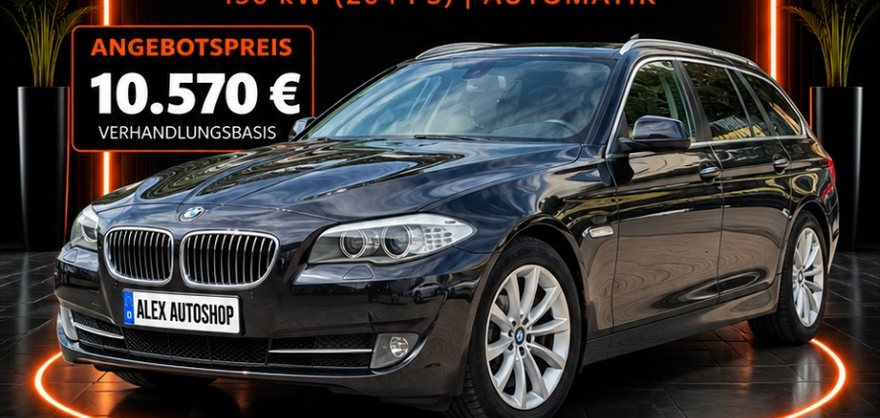
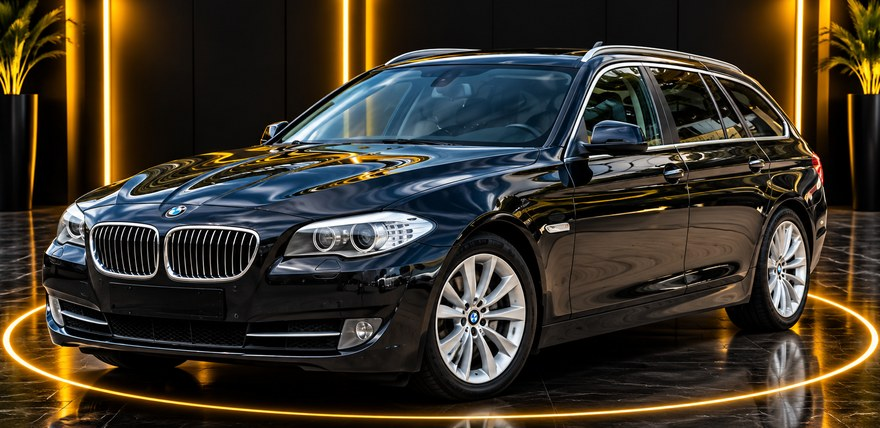
Fahrzeugboerse: 64 Fahrzeuge, Mietboerse und Business-Kredit
12 weitere Fahrzeuge aufgenommen, Bestand steht bei 64; acht der zwanzig Blaetter waren Dubletten. Der BMW 523 Touring hat das neue Studiobild ohne Preis bekommen. Aus Mieten und Vermieten wird ein Menuepunkt Mietboerse, die Seite beginnt jetzt mit zwei klaren Wegen: Auto mieten oder das eigene Auto vermieten lassen. Aus Kfz-Finanzierung und Kreditvermittlung wird ein Menuepunkt Business-Kredit. Beide Einzelseiten bleiben bestehen und sind aus der Fusszeile und untereinander verlinkt - fuer Google ist auto mieten wuppertal eine andere Suche als kfz finanzierung.

Claude-Session: https://claude.ai/code/session_01U1aMrJu8EivKdouXgqMG5n

diff --git a/src/data/fahrzeuge.ts b/src/data/fahrzeuge.ts
@@ -724,6 +724,162 @@ export const FAHRZEUGE: Fahrzeug[] = [
     beschreibung: "Peugeot 206 1.1 mit nur einem Vorbesitzer und TÜV bis 05/2028. Günstiger geht ein fahrbereites Auto mit langem TÜV kaum.",
     bild: "/fahrzeuge/peugeot-206-1-1.jpg",
   },
+  {
+    slug: "seat-alhambra-1-4-tsi",
+    marke: "Seat", modell: "Alhambra", variante: "1.4 TSI",
+    titel: "Seat Alhambra 1.4 TSI",
+    preis: 12699, km: 142000, erstzulassung: "01/2013",
+    kraftstoff: "Benzin", getriebe: "Schaltgetriebe",
+    kw: 110, ps: 149, hubraum: 1390, tueren: 5, sitze: 5,
+    plakette: "Euro 5 · 4 (Grün)", tuev: "neu", bauart: "Van",
+    ausstattung: ["Navigationssystem","Einparkhilfe","Sitzheizung","Tempomat","Bluetooth","Freisprecheinrichtung","Klimaanlage","Xenonscheinwerfer","ABS","Leichtmetallfelgen","Außenfarbe Silber","Innenausstattung Stoff"],
+    zustand: ["Altersbedingte Gebrauchsspuren","Unfallschaden: keiner bekannt","3 Vorbesitzer","TÜV wird bei Verkauf neu gemacht"],
+    beschreibung: "Seat Alhambra 1.4 TSI mit 149 PS. Großer Van mit Schiebetüren, Navigation und Xenon — die praktische Alternative zum Sharan.",
+    bild: "/fahrzeuge/seat-alhambra-1-4-tsi.jpg",
+  },
+  {
+    slug: "vw-t5-caravelle-4motion",
+    marke: "Volkswagen", modell: "T5 Transporter", variante: "Bus Caravelle Trendline 4Motion",
+    titel: "VW T5 Caravelle Trendline 4Motion",
+    preis: 10399, km: 243966, erstzulassung: "10/2010",
+    kraftstoff: "Diesel", getriebe: "Automatik",
+    kw: 132, ps: 179, hubraum: 1968, tueren: 5, sitze: 7,
+    plakette: "Euro 4 · 4 (Grün)", tuev: "auf Anfrage", bauart: "Transporter",
+    ausstattung: ["Allradantrieb (4Motion)","Klimaanlage","Navigationssystem","Freisprecheinrichtung","Schiebetüren","7 Sitzplätze","Anhängelast gebremst 2.500 kg","Tankgröße 80 l"],
+    zustand: ["Unfallschaden: keiner bekannt","2 Fahrzeughalter"],
+    beschreibung: "VW T5 Caravelle Trendline mit 4Motion-Allrad, Automatik und 179 PS. Sieben Sitze, Schiebetüren, 2,5 t Anhängelast — der Bus für Familie, Betrieb und Anhänger.",
+    bild: "/fahrzeuge/vw-t5-caravelle-4motion.jpg",
+  },
+  {
+    slug: "bmw-318d",
+    marke: "BMW", modell: "318d", variante: "2.0 Diesel",
+    titel: "BMW 318d 2.0 Diesel",
+    preis: 9490, km: 175140, erstzulassung: "05/2012",
+    kraftstoff: "Diesel", getriebe: "Schaltgetriebe",
+    kw: 105, ps: 143, hubraum: 1995, tueren: 4, sitze: 5,
+    plakette: "Euro 5 · 4 (Grün)", tuev: "09/2028", bauart: "Limousine",
+    ausstattung: ["Klimaanlage","Einparkhilfe hinten (PDC)","Multifunktionslenkrad","Tempomat","Radio / CD","Elektrische Fensterheber","Reifengröße 225/55 R16","Anhängelast gebremst 1.600 kg","Farbe Platingrau Metallic"],
+    zustand: ["Gebrauchsspuren und Kratzer","Unfallschaden: keiner bekannt"],
+    beschreibung: "BMW 318d mit 143 PS und Schaltgetriebe. TÜV bis 09/2028, sparsamer Diesel mit Anhängerkupplungs-Freigabe.",
+    bild: "/fahrzeuge/bmw-318d.jpg",
+  },
+  {
+    slug: "ford-focus-1-0-ecoboost",
+    marke: "Ford", modell: "Focus", variante: "1.0 EcoBoost",
+    titel: "Ford Focus 1.0 EcoBoost",
+    preis: 9099, km: 87000, erstzulassung: "05/2018",
+    kraftstoff: "Benzin", getriebe: "Schaltgetriebe",
+    kw: 92, ps: 125, hubraum: 998, tueren: 5, sitze: 5,
+    plakette: "Euro 6 · 4 (Grün)", tuev: "05/2026", bauart: "Kompaktwagen",
+    ausstattung: ["Klimaanlage","Tempomat","Parksensoren hinten","Start/Stopp-Automatik","Bluetooth","Freisprecheinrichtung","Isofix","Multifunktionslenkrad","Zahnriemen neu"],
+    zustand: ["Gebrauchsspuren dem Alter entsprechend","Kleine Kratzer und Dellen","Unfallschaden: keiner bekannt","2 Vorbesitzer"],
+    beschreibung: "Ford Focus 1.0 EcoBoost mit 125 PS, Euro 6 und frischem Zahnriemen. Wenig gelaufen für sein Baujahr, sparsam und gut ausgestattet.",
+    bild: "/fahrzeuge/ford-focus-1-0-ecoboost.jpg",
+  },
+  {
+    slug: "ford-fiesta-1-0-ecoboost",
+    marke: "Ford", modell: "Fiesta", variante: "1.0 EcoBoost Automatik",
+    titel: "Ford Fiesta 1.0 EcoBoost Automatik",
+    preis: 6790, km: 116685, erstzulassung: "03/2014",
+    kraftstoff: "Benzin", getriebe: "Automatik",
+    kw: 74, ps: 100, hubraum: 999, tueren: 5, sitze: 5,
+    plakette: "4 (Grün)", tuev: "03/2026", bauart: "Kleinwagen",
+    ausstattung: ["Klimaanlage","Zentralverriegelung","Elektrische Fensterheber (vorne)","Radio / CD","Multifunktionslenkrad","Airbag Fahrer & Beifahrer","Kopfstützen hinten","Geteilte Rücksitzbank","ABS & ESP","Servolenkung","Bordcomputer","Leichtmetallfelgen"],
+    zustand: ["Technisch einwandfrei","Nichtraucherfahrzeug","Innenraum gepflegt","Scheckheft gepflegt"],
+    beschreibung: "Zuverlässiger Ford Fiesta 1.0 EcoBoost mit 100 PS und Automatikgetriebe. Sehr sparsam und ideal für den Stadtverkehr. Technisch einwandfrei und sofort fahrbereit.",
+    bild: "/fahrzeuge/ford-fiesta-1-0-ecoboost.jpg",
+  },
+  {
+    slug: "renault-twingo-1-2",
+    marke: "Renault", modell: "Twingo", variante: "1.2 16V",
+    titel: "Renault Twingo 1.2 16V",
+    preis: 2799, km: 123000, erstzulassung: "06/2013",
+    kraftstoff: "Benzin", getriebe: "Schaltgetriebe",
+    kw: 55, ps: 75, hubraum: 1149, tueren: 3, sitze: 4,
+    plakette: "Euro 5 · 4 (Grün)", tuev: "05/2028", bauart: "Kleinwagen",
+    ausstattung: ["Klimaanlage","Servolenkung","Elektrische Fensterheber","Radio / CD","Zentralverriegelung","Isofix","Geteilte Rücksitze","Sommerreifen auf Stahlfelgen","Inspektion neu"],
+    zustand: ["Gebrauchsspuren dem Alter entsprechend","Kleine Kratzer und Dellen","Unfallschaden: keiner bekannt","2 Fahrzeughalter"],
+    beschreibung: "Renault Twingo 1.2 16V mit 75 PS. TÜV und Inspektion frisch gemacht, Klimaanlage an Bord — ein günstiger, zuverlässiger Stadtwagen.",
+    bild: "/fahrzeuge/renault-twingo-1-2.jpg",
+  },
+  {
+    slug: "bmw-320d-touring",
+    marke: "BMW", modell: "320d Touring", variante: "Navi / PDC / Klimaautomatik",
+    titel: "BMW 320d Touring",
+    preis: 2390, km: 178650, erstzulassung: "03/2010",
+    kraftstoff: "Diesel", getriebe: "Schaltgetriebe",
+    kw: 130, ps: 177, tueren: 5, sitze: 5,
+    plakette: "Euro 5 · 4 (Grün)", tuev: "auf Anfrage", bauart: "Kombi",
+    ausstattung: ["Navigationssystem","Einparkhilfe (PDC)","Klimaautomatik"],
+    zustand: ["Quietschen im Motor die ersten fünf Minuten, danach fährt er einwandfrei","Unfallschaden: keiner bekannt","2 Fahrzeughalter"],
+    beschreibung: "BMW 320d Touring mit 177 PS, Navigation, PDC und Klimaautomatik. Ehrlich gesagt: der Motor quietscht die ersten fünf Minuten — danach läuft er einwandfrei. Deshalb der Preis.",
+    bild: "/fahrzeuge/bmw-320d-touring.jpg",
+  },
+  {
+    slug: "skoda-fabia-1-2",
+    marke: "Skoda", modell: "Fabia", variante: "1.2 12V",
+    titel: "Skoda Fabia 1.2 12V",
+    preis: 2299, km: 140000, erstzulassung: "05/2005",
+    kraftstoff: "Benzin", getriebe: "Schaltgetriebe",
+    kw: 40, ps: 55, hubraum: 1198, tueren: 5, sitze: 5,
+    plakette: "Euro 4 · 4 (Grün)", tuev: "neu", bauart: "Kleinwagen",
+    ausstattung: ["Klimaanlage","Servolenkung","Airbag","ABS","Zentralverriegelung","Elektrische Fensterheber","Radio / CD","Isofix"],
+    zustand: ["Gebrauchsspuren dem Alter entsprechend","Kleine Kratzer und Dellen","Unfallschaden: keiner bekannt","3 Vorbesitzer"],
+    beschreibung: "Skoda Fabia 1.2 mit TÜV neu. Klimaanlage, Isofix und der bekannt haltbare VW-Unterbau — ein ehrlicher Erst- oder Zweitwagen.",
+    bild: "/fahrzeuge/skoda-fabia-1-2.jpg",
+  },
+  {
+    slug: "vw-golf-plus-1-6",
+    marke: "Volkswagen", modell: "Golf Plus", variante: "1.6",
+    titel: "VW Golf Plus 1.6",
+    preis: 2290, km: 173322, erstzulassung: "01/2007",
+    kraftstoff: "Benzin", getriebe: "Schaltgetriebe",
+    kw: 75, ps: 102, hubraum: 1598, tueren: 5, sitze: 5,
+    plakette: "Euro 4 · 4 (Grün)", tuev: "auf Anfrage", bauart: "Van",
+    ausstattung: ["Klimaanlage","Radio / CD","Elektrische Fensterheber","Zentralverriegelung","Servolenkung","Airbag","ABS","Geteilte Rücksitzbank","Hoher Einstieg"],
+    zustand: ["Keine Mängel bekannt","Unfallschaden: keiner bekannt"],
+    beschreibung: "Das Fahrzeug läuft einwandfrei, Motor und Getriebe sind in einem sehr guten Zustand. Alle Rechnungen vorhanden. Rostfrei. Einsteigen und losfahren!",
+    bild: "/fahrzeuge/vw-golf-plus-1-6.jpg",
+  },
+  {
+    slug: "hyundai-atos-prime",
+    marke: "Hyundai", modell: "Atos Prime", variante: "1.1",
+    titel: "Hyundai Atos Prime 1.1",
+    preis: 2099, km: 130000, erstzulassung: "03/2007",
+    kraftstoff: "Benzin", getriebe: "Schaltgetriebe",
+    kw: 46, ps: 62, hubraum: 1086, tueren: 5, sitze: 5,
+    plakette: "Euro 4 · 4 (Grün)", tuev: "08/2028", bauart: "Kleinwagen",
+    ausstattung: ["Bluetooth","Radio","ABS","Zentralverriegelung","Servolenkung","Außenfarbe Schwarz","Innenausstattung Stoff"],
+    zustand: ["Altersbedingte Gebrauchsspuren","Nichtraucherfahrzeug","Unfallschaden: keiner bekannt","3 Vorbesitzer","Keine Klimaanlage"],
+    beschreibung: "Hyundai Atos Prime mit TÜV bis 08/2028. Hoher Einstieg, wenig Verbrauch, kaum Unterhalt — der klassische Zweitwagen.",
+    bild: "/fahrzeuge/hyundai-atos-prime.jpg",
+  },
+  {
+    slug: "opel-corsa-c-1-2-twinport",
+    marke: "Opel", modell: "Corsa C", variante: "1.2 Twinport",
+    titel: "Opel Corsa C 1.2 Twinport",
+    preis: 1899, km: 114000, erstzulassung: "05/2004",
+    kraftstoff: "Benzin", getriebe: "Schaltgetriebe",
+    kw: 44, ps: 60, hubraum: 1229, tueren: 5, sitze: 5,
+    plakette: "Euro 4 · 4 (Grün)", tuev: "neu", bauart: "Kleinwagen",
+    ausstattung: ["Servolenkung","ABS","Airbag Fahrer & Beifahrer","Zentralverriegelung","Elektrische Fensterheber","Radio / CD","Sitzverstellung Höhe","Geteilte Rücksitze","Sommerreifen auf Stahlfelgen","Inspektion neu"],
+    zustand: ["Gebrauchsspuren dem Alter entsprechend","Kleine Kratzer und Dellen","Unfallschaden: keiner bekannt","3 Fahrzeughalter","Keine Klimaanlage"],
+    beschreibung: "Opel Corsa C 1.2 Twinport mit TÜV und Inspektion neu. Wenig Kilometer für sein Alter — günstig im Kauf und im Unterhalt.",
+    bild: "/fahrzeuge/opel-corsa-c-1-2-twinport.jpg",
+  },
+  {
+    slug: "nissan-micra-cabrio-2004",
+    marke: "Nissan", modell: "Micra", variante: "1.6 16V Cabrio",
+    titel: "Nissan Micra 1.6 Cabrio",
+    preis: 1890, km: 141800, erstzulassung: "10/2004",
+    kraftstoff: "Benzin", getriebe: "Schaltgetriebe",
+    kw: 81, ps: 110, hubraum: 1598, tueren: 2, sitze: 4,
+    plakette: "Euro 4 · 4 (Grün)", tuev: "auf Anfrage", bauart: "Cabrio",
+    ausstattung: ["Elektrische Fensterheber","Zentralverriegelung","Servolenkung","Radio"],
+    zustand: ["Unfallschaden: keiner bekannt","3 Fahrzeughalter"],
+    beschreibung: "Nissan Micra Cabrio mit 110 PS und elektrischem Klappdach. Offen fahren für unter 2.000 € — günstiger kommt man kaum an ein Cabrio.",
+    bild: "/fahrzeuge/nissan-micra-cabrio-2004.jpg",
+  },
 ];
 
 /** "06/2027" → Date am Monatsende; "neu" o. ä. → null */

diff --git a/src/pages/Mieten.tsx b/src/pages/Mieten.tsx
@@ -1,8 +1,9 @@
 import { motion } from "framer-motion";
-import { Phone, MessageCircle, MapPin, CheckCircle, ShieldCheck, Car, Truck, Package, Sparkles } from "lucide-react";
+import { Phone, MessageCircle, MapPin, CheckCircle, ShieldCheck, Car, Truck, Package, Sparkles, HandCoins, ArrowRight } from "lucide-react";
 import { Seo } from "@/components/Seo";
 import { SHOP_INFO, whatsappLink } from "@/data/shopInfo";
 import { FahrzeugbNav, BereichsHero } from "@/components/FahrzeugbNav";
+import { Link } from "react-router-dom";
 
 const auf = { initial: { opacity: 0, y: 18 }, whileInView: { opacity: 1, y: 0 }, viewport: { once: true, margin: "-60px" } };
 
@@ -25,15 +26,15 @@ export default function Mieten() {
   return (
     <div>
       <Seo
-        title="Auto mieten in Wuppertal – Kleinwagen, Kombi, Transporter | Alex Autoshop"
+        title="Mietbörse Wuppertal – Auto mieten und vermieten | Alex Autoshop"
         description="Fahrzeug mieten in Wuppertal: Kleinwagen, Kombi, Van und Transporter. Versichert als Selbstfahrervermietfahrzeug, Übergabe direkt beim Händler. Preise auf Anfrage."
       />
       <FahrzeugbNav />
       <BereichsHero
         augenbraue="Alex Autoshop · Fahrzeugbörse"
-        titel="Auto mieten."
-        akzent="Ohne Theater."
-        text="Vom Kleinwagen bis zum Transporter — Übergabe bei uns in Wuppertal, ohne Warteschlange am Flughafenschalter und ohne Kleingedrucktes, das erst beim Zurückgeben auffällt."
+        titel="Mietbörse."
+        akzent="Mieten und vermieten."
+        text="Vom Kleinwagen bis zum Transporter — Übergabe bei uns in Wuppertal, ohne Warteschlange am Schalter und ohne Kleingedrucktes, das erst beim Zurückgeben auffällt. Und wenn dein eigenes Auto nur herumsteht: wir vermieten es für dich."
       >
         <div className="flex flex-col sm:flex-row gap-3 justify-center">
           <a href={`tel:${SHOP_INFO.phoneIntl}`} className="btn-gold-bright text-lg px-8">
@@ -46,7 +47,37 @@ export default function Mieten() {
         </div>
       </BereichsHero>
 
-      <section className="container py-14 sm:py-20">
+      {/* Zwei Wege: mieten oder das eigene Auto vermieten lassen */}
+      <section className="container pt-10 sm:pt-14">
+        <div className="grid sm:grid-cols-2 gap-5">
+          <div className="card-tilt hover:translate-y-0 p-6 border-primary/40 bg-primary/5">
+            <div className="w-12 h-12 rounded-xl bg-primary/15 flex items-center justify-center mb-4">
+              <Car className="w-6 h-6 text-primary" />
+            </div>
+            <h2 className="text-xl mb-2">Ich will ein Auto mieten</h2>
+            <p className="text-sm text-muted-foreground leading-relaxed mb-4">
+              Kleinwagen, Kombi, Transporter oder etwas Besonderes — für einen Tag oder für Wochen.
+            </p>
+            <a href="#klassen" className="inline-flex items-center gap-1.5 text-primary font-semibold text-sm hover:underline">
+              Fahrzeugklassen ansehen <ArrowRight className="w-4 h-4" />
+            </a>
+          </div>
+          <Link to="/vermieten" className="card-tilt p-6 block">
+            <div className="w-12 h-12 rounded-xl bg-primary/10 flex items-center justify-center mb-4">
+              <HandCoins className="w-6 h-6 text-primary" />
+            </div>
+            <h2 className="text-xl mb-2">Mein Auto soll Geld verdienen</h2>
+            <p className="text-sm text-muted-foreground leading-relaxed mb-4">
+              Du gibst dein Fahrzeug bei uns ab, wir kümmern uns um Mieter, Versicherung und Übergabe.
+            </p>
+            <span className="inline-flex items-center gap-1.5 text-primary font-semibold text-sm">
+              So läuft das Vermieten <ArrowRight className="w-4 h-4" />
+            </span>
+          </Link>
+        </div>
+      </section>
+
+      <section id="klassen" className="container py-14 sm:py-20 scroll-mt-40">
         <motion.h2 {...auf} className="text-2xl sm:text-3xl mb-8">Was du bei uns mieten kannst</motion.h2>
         <div className="grid sm:grid-cols-2 lg:grid-cols-4 gap-5">
           {KLASSEN.map((k, i) => (

diff --git a/src/pages/Kreditvermittlung.tsx b/src/pages/Kreditvermittlung.tsx
@@ -39,21 +39,21 @@ export default function Kreditvermittlung() {
   return (
     <div>
       <Seo
-        title="Kreditvermittlung für Gewerbe & Händler – Wuppertal | Alex Autoshop"
-        description="Finanzierungsanfragen für Autohändler, Werkstätten und Gewerbetreibende: Fahrzeugkauf, Händlerbestand, Betriebsmittel. Ausschließlich für gewerbliche Kunden. Erlaubnis nach § 34c GewO."
+        title="Business-Kredit für Händler & Gewerbe – Wuppertal | Alex Autoshop"
+        description="Kredit- und Finanzierungsanfragen für Autohändler, Werkstätten und Gewerbetreibende: Fahrzeugkauf, Händlerbestand, Betriebsmittel. Ausschließlich für gewerbliche Kunden. Erlaubnis nach § 34c GewO."
       />
       <FahrzeugbNav />
       <BereichsHero
         augenbraue="Alex Autoshop · Fahrzeugbörse"
-        titel="Kreditvermittlung."
+        titel="Business-Kredit."
         akzent="Nur für Gewerbe."
-        text="Für Autohändler, Werkstätten, Unternehmen und Selbstständige. Wir nehmen deine Anfrage auf und gehen damit zu den Finanzierungspartnern — für Fahrzeugkauf, Händlerbestand oder Betriebsmittel."
+        text="Für Autohändler, Werkstätten, Unternehmen und Selbstständige. Ein Weg für beides — das Fahrzeug für den Betrieb und das Geld, das dahinter steht. Wir nehmen deine Anfrage auf und gehen damit zu den Finanzierungspartnern."
       >
         <div className="inline-flex items-start gap-2 rounded-xl bg-night/60 border border-gold-bright/30 px-4 py-3 text-left max-w-md">
           <Lock className="w-4 h-4 text-gold-accent shrink-0 mt-0.5" />
           <p className="text-sm text-white/80">
             Dieser Bereich richtet sich <strong className="text-white">ausschließlich an gewerbliche Kunden</strong>.
-            Privatkunden können ihn nicht nutzen — für private Fahrzeugkäufe gibt es die{" "}
+            Privatkunden können ihn nicht nutzen — für den privaten Autokauf gibt es die{" "}
             <Link to="/finanzierung" className="text-gold-accent underline underline-offset-2">Kfz-Finanzierung</Link>.
           </p>
         </div>

diff --git a/src/components/FahrzeugbNav.tsx b/src/components/FahrzeugbNav.tsx
@@ -1,15 +1,13 @@
 import { NavLink } from "react-router-dom";
 import { useMerkliste } from "@/hooks/useMerkliste";
-import { Car, Key, HandCoins, Banknote, Landmark, Heart } from "lucide-react";
+import { Car, Key, Landmark, Heart } from "lucide-react";
 import { cn } from "@/lib/utils";
 
 /** Unter-Navigation der Fahrzeugbörse — auf allen vier Bereichsseiten gleich. */
 export const BEREICHE = [
   { to: "/fahrzeugboerse", label: "Fahrzeuge", icon: Car, ende: true },
-  { to: "/mieten", label: "Mieten", icon: Key, ende: false },
-  { to: "/vermieten", label: "Vermieten", icon: HandCoins, ende: false },
-  { to: "/finanzierung", label: "Kfz-Finanzierung", icon: Banknote, ende: false },
-  { to: "/kreditvermittlung", label: "Kreditvermittlung", icon: Landmark, ende: false },
+  { to: "/mieten", label: "Mietbörse", icon: Key, ende: false },
+  { to: "/kreditvermittlung", label: "Business-Kredit", icon: Landmark, ende: false },
 ];
 
 export function FahrzeugbNav() {

diff --git a/src/pages/Finanzierung.tsx b/src/pages/Finanzierung.tsx
@@ -77,7 +77,7 @@ export default function Finanzierung() {
             </p>
             <div className="flex flex-col gap-1.5">
               <Link to="/kreditvermittlung" className="text-primary font-semibold text-sm hover:underline">
-                Zur Kreditvermittlung für Gewerbe →
+                Zum Business-Kredit für Gewerbe →
               </Link>
               <Link to="/mitgliedschaft" className="text-primary font-semibold text-sm hover:underline">
                 Mitgliedschaft ansehen →

diff --git a/src/pages/Vermieten.tsx b/src/pages/Vermieten.tsx
@@ -24,7 +24,7 @@ export default function Vermieten() {
   return (
     <div>
       <Seo
-        title="Auto vermieten lassen – Wuppertal | Alex Autoshop Fahrzeugbörse"
+        title="Auto vermieten lassen – Mietbörse Wuppertal | Alex Autoshop"
         description="Dein Auto steht nur herum? Wir vermieten es für dich: versichert als Selbstfahrervermietfahrzeug, geprüfte Mieter, Übergabe und Werkstatt bei uns in Wuppertal."
       />
       <FahrzeugbNav />

diff --git a/src/lib/fahrzeugFilter.ts b/src/lib/fahrzeugFilter.ts
@@ -27,6 +27,7 @@ const BAUART_ZU_KATEGORIE: Record<string, Kategorie> = {
   "Coupé / Sportback": "Coupé",
   "Van": "Van & Transporter",
   "Hochdachkombi": "Van & Transporter",
+  "Transporter": "Van & Transporter",
 };
 
 export function kategorieVon(f: Fahrzeug): Kategorie {
